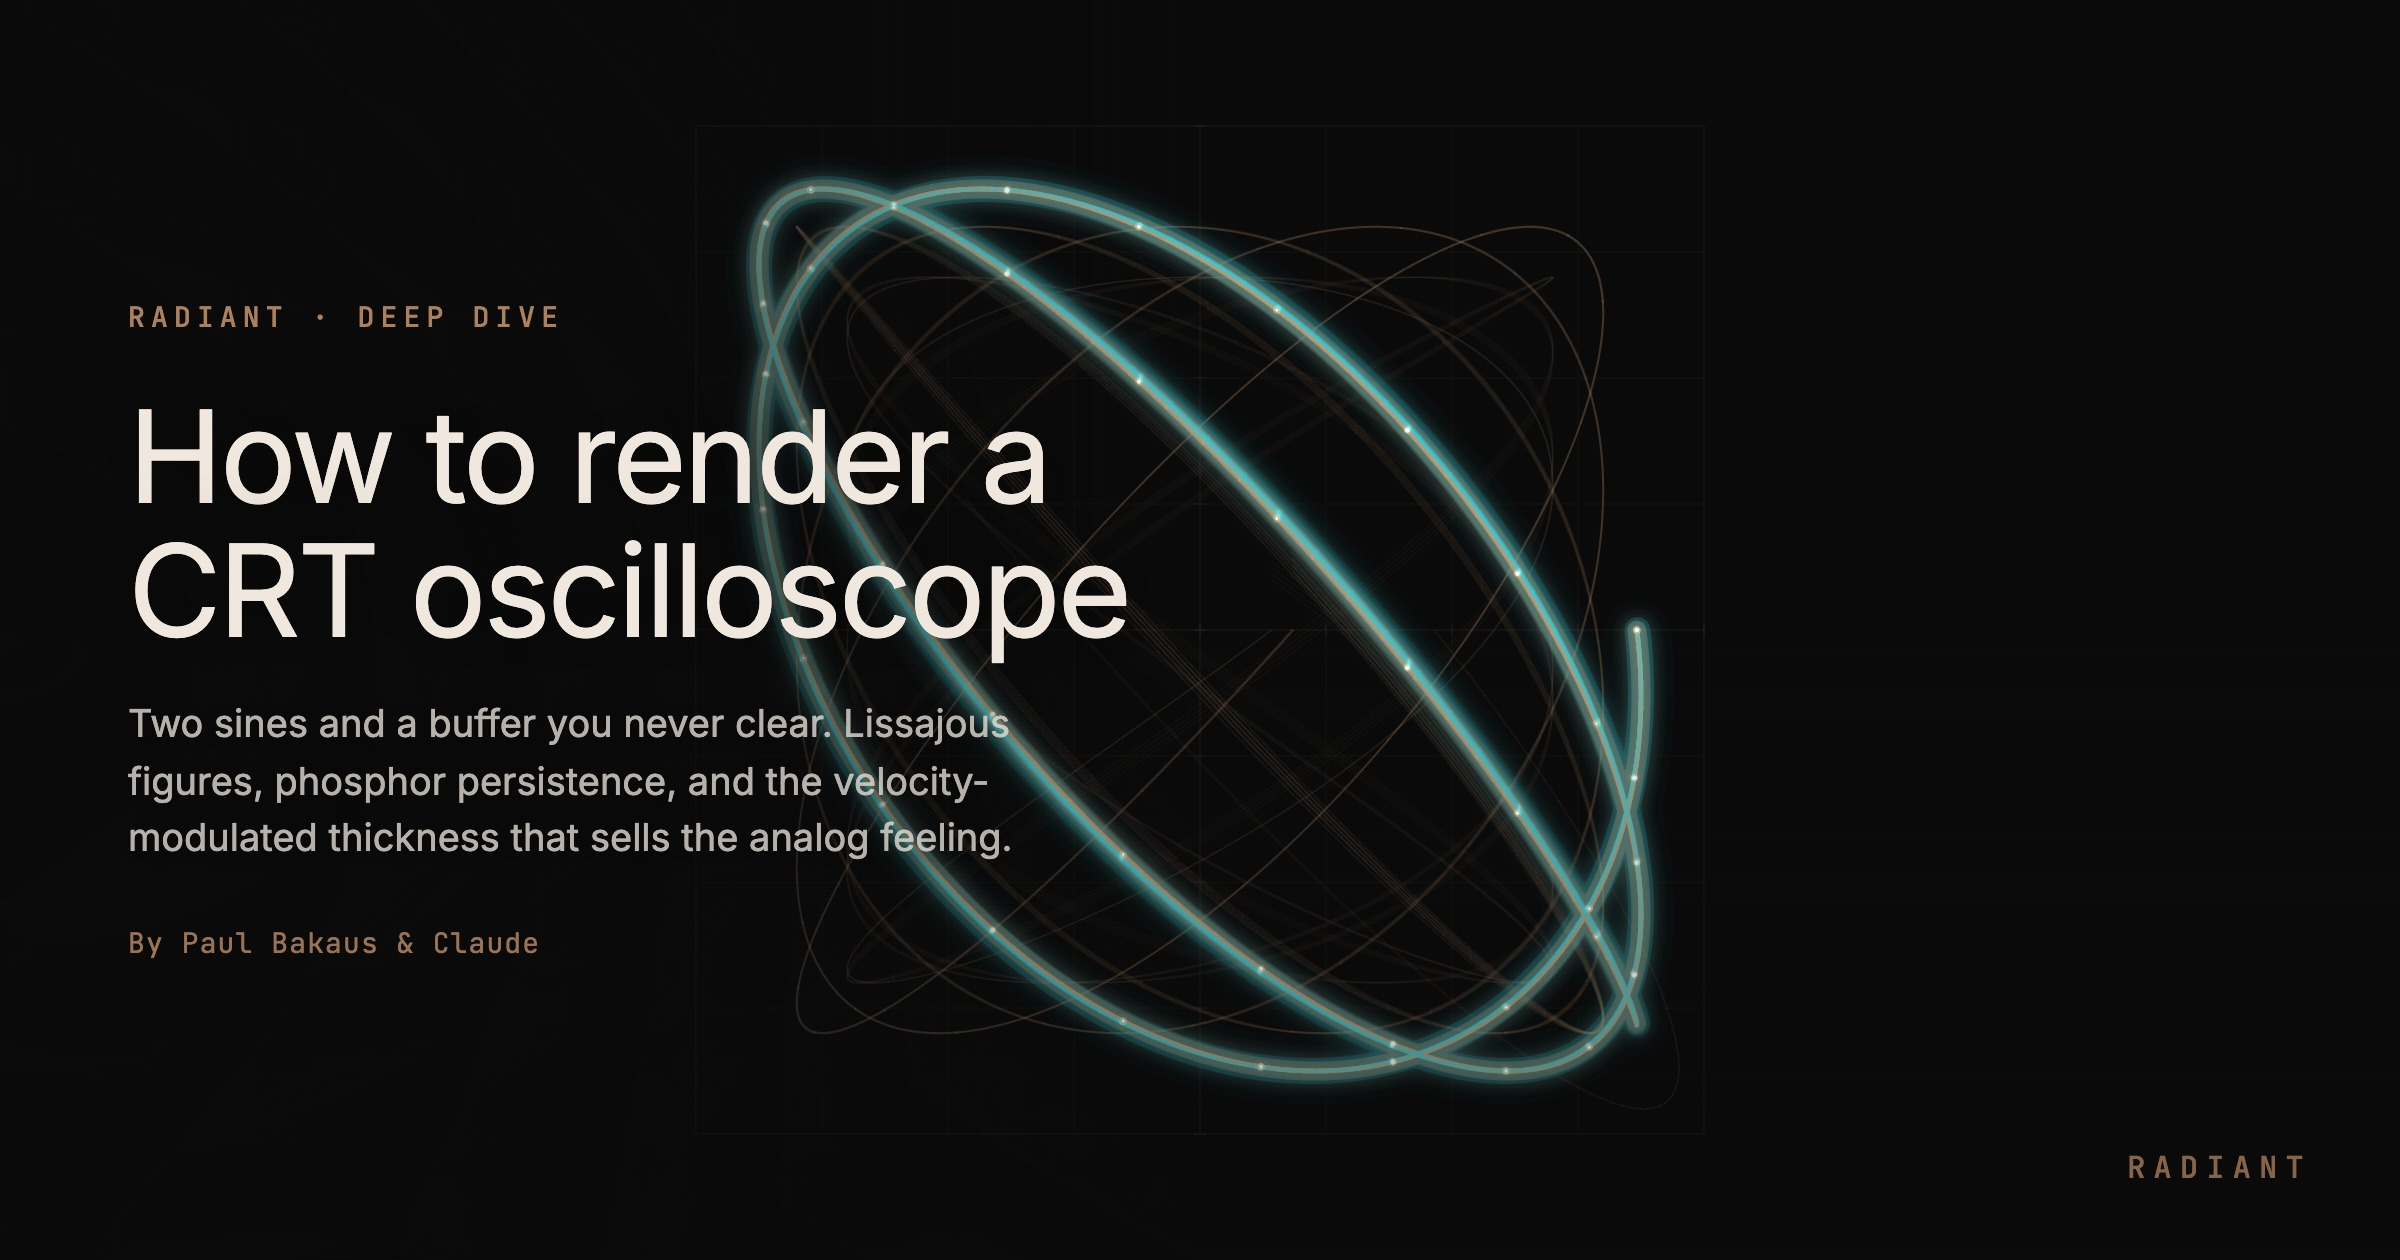
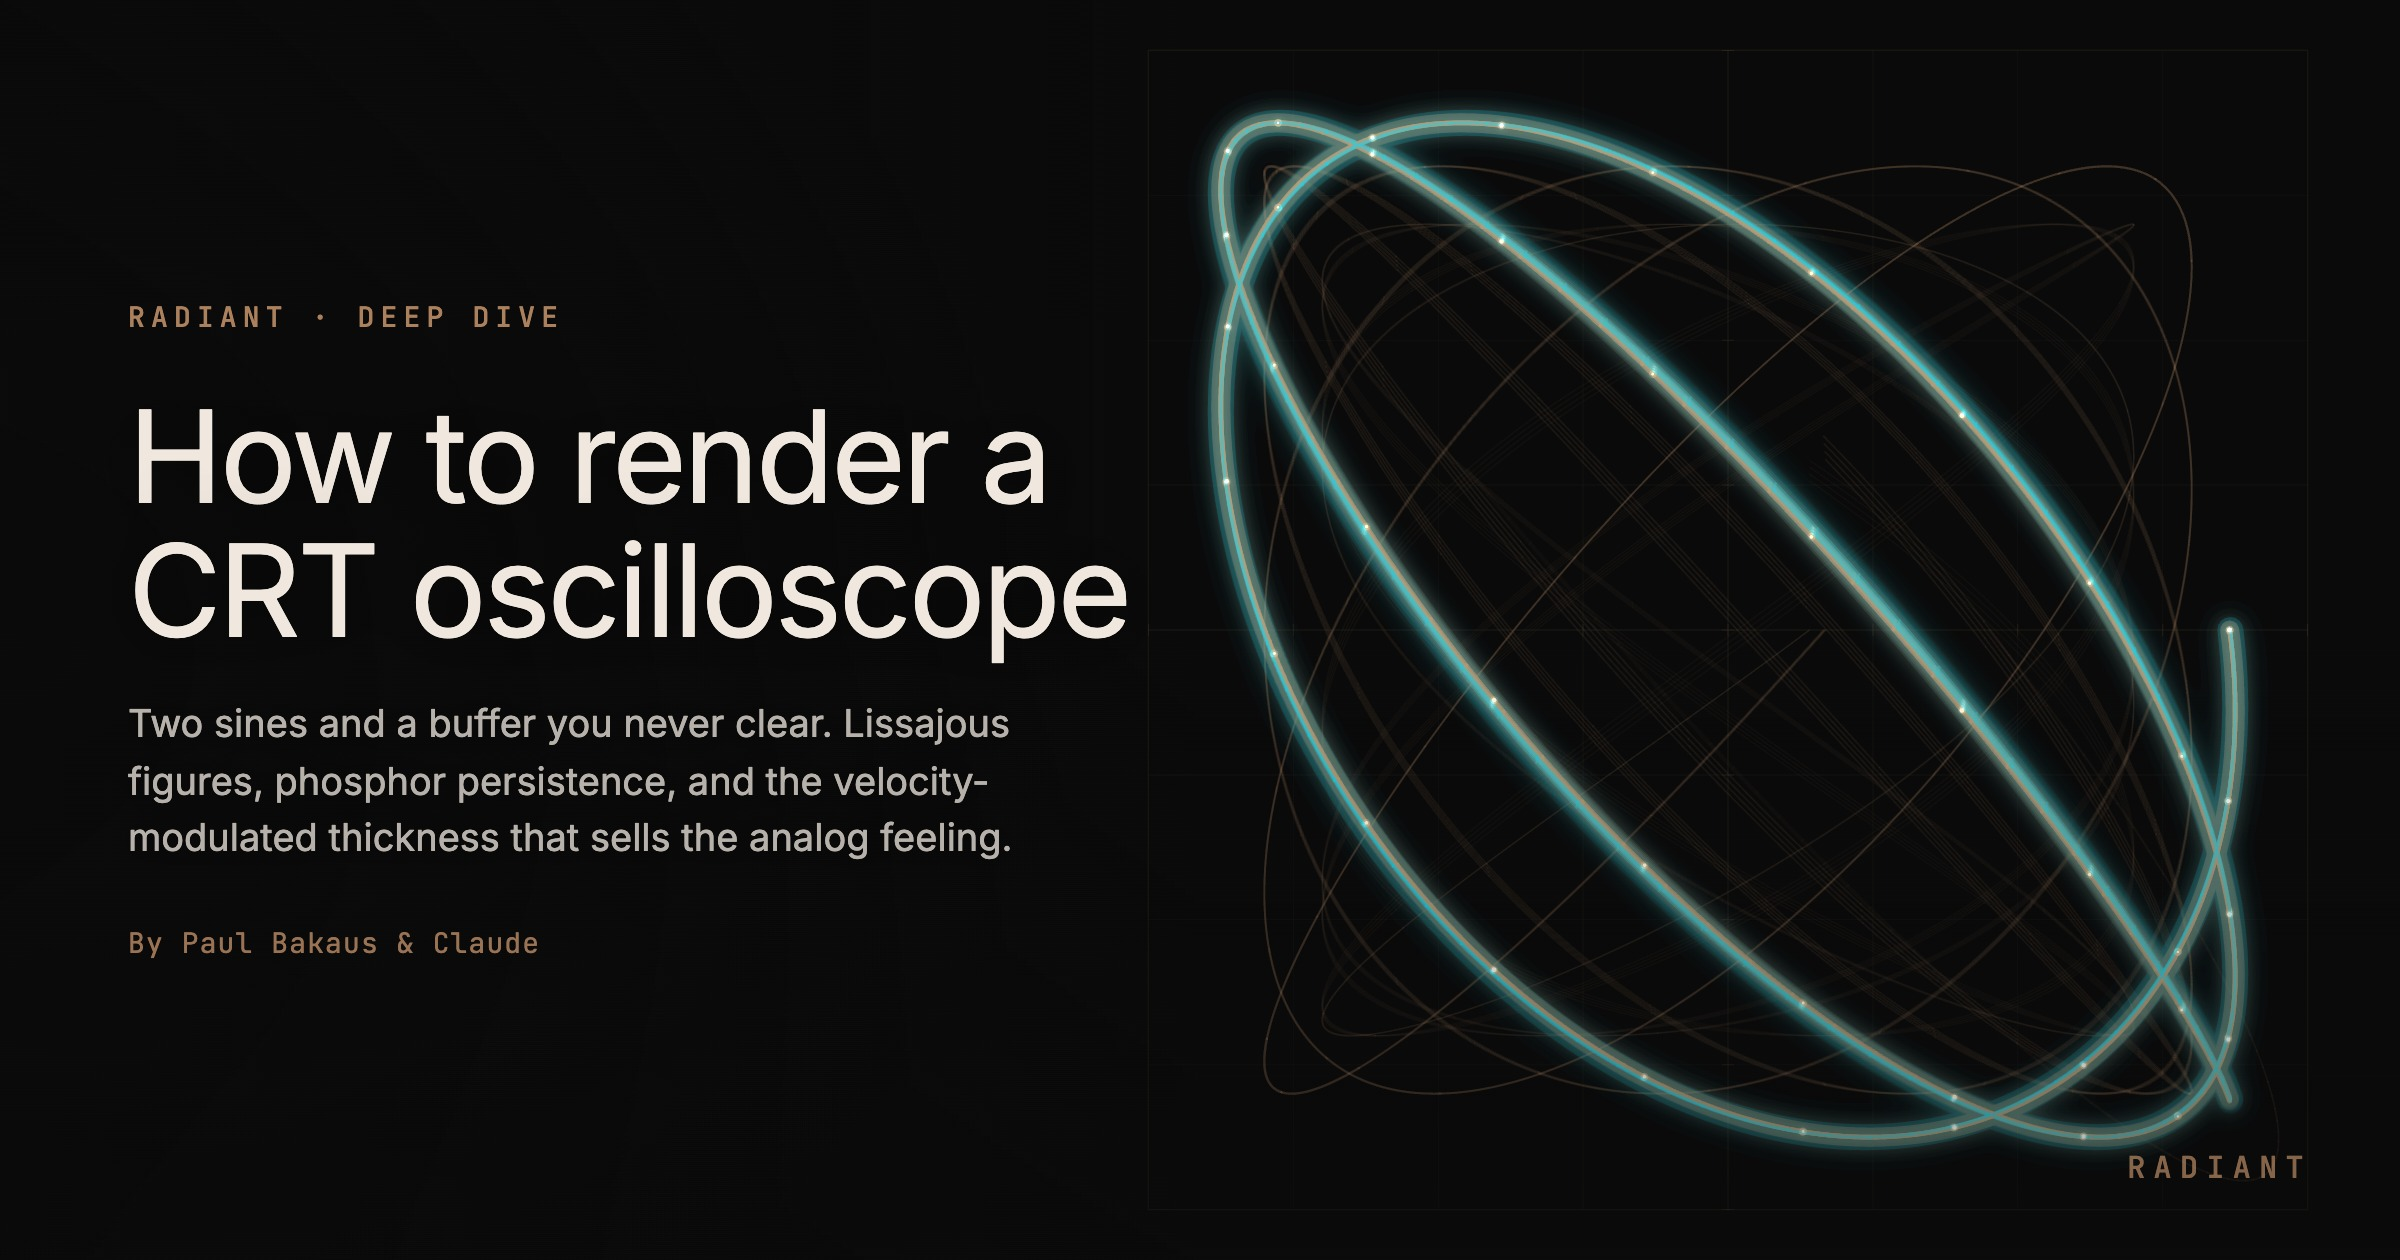
Shift analog-drift hero figure off-center on article page
The Lissajous figure was being drawn at the dead-center of the
viewport, so the article-hero title text overlapped the left half
of it. Followed the event-horizon pattern: added CENTER_X/CENTER_Y/
SCALE postMessage params to the shader (defaulting to 0.5/0.5/1.0,
so the standalone shader is unchanged), then set heroConfig to push
the figure to (0.72, 0.5) at 1.15x scale on the article page only.
Regenerated the share image with the same offset.

Changed region(s): [[0.3125, 0.0619, 0.9375, 0.9286]]

diff --git a/static/analog-drift.html b/static/analog-drift.html
@@ -58,6 +58,11 @@
   // ── Tunable parameters ──
   var DRIFT_SPEED = 0.5;
   var TRAIL_LENGTH = 1.0;
+  // Normalized figure center + scale — exposed so the article hero can
+  // push the scope off-center without affecting the standalone shader.
+  var CENTER_X = 0.5;
+  var CENTER_Y = 0.5;
+  var SCALE = 1.0;
 
   // ── Mouse tracking ──
   var mouse = { x: -1, y: -1, active: false };
@@ -138,9 +143,9 @@
   function drawGrid() {
     // Subtle grid that breathes
     gridOpacity += (gridTarget - gridOpacity) * 0.02;
-    var cx = W / 2;
-    var cy = H / 2;
-    var size = Math.min(W, H) * 0.4;
+    var cx = W * CENTER_X;
+    var cy = H * CENTER_Y;
+    var size = Math.min(W, H) * 0.4 * SCALE;
 
     ctx.strokeStyle = 'rgba(200, 149, 108, ' + (gridOpacity * 0.5) + ')';
     ctx.lineWidth = 0.5;
@@ -195,9 +200,9 @@
 
   // ── Draw a single Lissajous curve ──
   function drawLissajous(a, b, delta, scale, color, alpha, lineWidth, bloomSize, numPoints) {
-    var cx = W * 0.5;
-    var cy = H * 0.5;
-    var size = Math.min(W, H) * scale;
+    var cx = W * CENTER_X;
+    var cy = H * CENTER_Y;
+    var size = Math.min(W, H) * scale * SCALE;
     var coverage = Math.PI * 2 * Math.max(Math.ceil(a), Math.ceil(b));
     var step = coverage / numPoints;
 
@@ -366,9 +371,9 @@
     );
 
     // ── Bright phosphor dots at key points ──
-    var cx = W / 2;
-    var cy = H / 2;
-    var size = Math.min(W, H) * 0.35;
+    var cx = W * CENTER_X;
+    var cy = H * CENTER_Y;
+    var size = Math.min(W, H) * 0.35 * SCALE;
     var dotCount = 40;
     var coverage = Math.PI * 2 * Math.max(Math.ceil(currentA), Math.ceil(currentB));
 
@@ -425,6 +430,9 @@
       switch (e.data.name) {
         case 'DRIFT_SPEED': DRIFT_SPEED = e.data.value; break;
         case 'TRAIL_LENGTH': TRAIL_LENGTH = e.data.value; break;
+        case 'CENTER_X': CENTER_X = e.data.value; break;
+        case 'CENTER_Y': CENTER_Y = e.data.value; break;
+        case 'SCALE': SCALE = e.data.value; break;
       }
     }
   });

diff --git a/src/lib/shaders.ts b/src/lib/shaders.ts
@@ -1259,7 +1259,15 @@ export const shaders: Shader[] = [
 		params: [
 			{ name: 'DRIFT_SPEED', label: 'Drift Speed', min: 0.1, max: 2.0, step: 0.05, default: 0.5 },
 			{ name: 'TRAIL_LENGTH', label: 'Trail Length', min: 0.3, max: 2.0, step: 0.05, default: 1.0 }
-		]
+		],
+		heroConfig: {
+			params: [
+				{ name: 'CENTER_X', value: 0.72 },
+				{ name: 'CENTER_Y', value: 0.5 },
+				{ name: 'SCALE', value: 1.15 }
+			]
+		},
+		hasArticle: true
 	},
 ];
 
